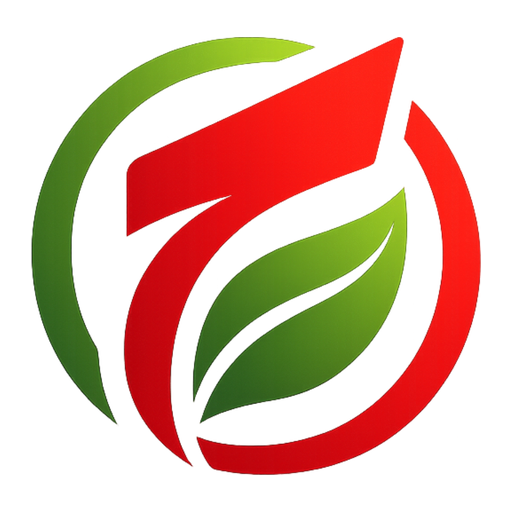
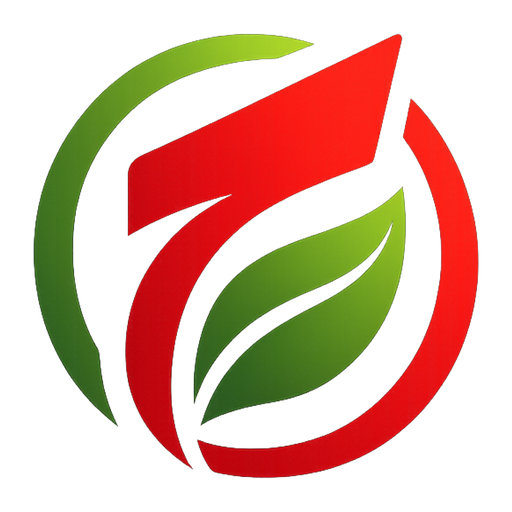
Add files via upload

diff --git a/admin.html b/admin.html
@@ -13,7 +13,7 @@
 <style>
 :root{--bg:#eef4ff;--panel:#fff;--line:#e7eef8;--text:#0f172a;--muted:#64748b;--blue:#2563eb;--blue2:#1d4ed8;--green:#059669;--red:#dc2626;--purple:#7c3aed;--orange:#ea580c;--shadow:0 16px 40px rgba(15,23,42,.08)}
 *{box-sizing:border-box}body{margin:0;font-family:Inter,system-ui,sans-serif;background:var(--bg);color:var(--text)}.hidden{display:none!important}
-.login{min-height:100vh;display:flex;align-items:center;justify-content:center;padding:24px;background:radial-gradient(circle at top left,#1e3a8a,#0f172a 55%)}.card{width:min(460px,100%);background:#fff;border-radius:28px;padding:28px;box-shadow:var(--shadow)}.logo{width:64px;height:64px;border-radius:18px;background:#fff;display:flex;align-items:center;justify-content:center;overflow:hidden;box-shadow:0 10px 24px rgba(15,23,42,.12);margin-bottom:16px;border:1px solid #e2e8f0}.logo img{width:100%;height:100%;object-fit:cover;display:block}.title{font-size:32px;font-weight:900;letter-spacing:-1px;margin:0}.sub{margin:10px 0 20px;color:var(--muted);line-height:1.55}.label{font-size:12px;font-weight:800;text-transform:uppercase;letter-spacing:.08em;color:var(--muted);margin-bottom:8px}.field{margin-bottom:14px}.field input,.field select,.field textarea{width:100%;padding:13px 14px;border-radius:16px;border:1.5px solid #dbe3f0;font:inherit;background:#fff;outline:none}.field textarea{min-height:96px;resize:vertical}.field input:focus,.field select:focus,.field textarea:focus{border-color:var(--blue)}.btn{border:none;border-radius:16px;padding:13px 18px;font:inherit;font-weight:800;cursor:pointer;display:inline-flex;align-items:center;justify-content:center;gap:8px;text-decoration:none}.btn-primary{background:linear-gradient(135deg,var(--blue),var(--blue2));color:#fff;box-shadow:0 12px 24px rgba(37,99,235,.22)}.btn-soft{background:#fff;border:1px solid var(--line);color:var(--text)}.btn-red{background:#fef2f2;border:1px solid #fecaca;color:var(--red)}.btn-green{background:#ecfdf5;border:1px solid #a7f3d0;color:var(--green)}.btn-sm{padding:10px 12px;border-radius:12px;font-size:12px}.err{display:none;color:var(--red);font-size:13px;font-weight:700;margin-top:8px}
+.login{min-height:100vh;display:flex;align-items:center;justify-content:center;padding:24px;background:radial-gradient(circle at top left,#1e3a8a,#0f172a 55%)}.card{width:min(460px,100%);background:#fff;border-radius:28px;padding:28px;box-shadow:var(--shadow)}.logo{width:64px;height:64px;border-radius:18px;background:#fff;display:flex;align-items:center;justify-content:center;overflow:hidden;box-shadow:0 10px 24px rgba(15,23,42,.12);margin-bottom:16px;border:1px solid #e2e8f0}.logo img{width:100%;height:100%;object-fit:contain;display:block}.title{font-size:32px;font-weight:900;letter-spacing:-1px;margin:0}.sub{margin:10px 0 20px;color:var(--muted);line-height:1.55}.label{font-size:12px;font-weight:800;text-transform:uppercase;letter-spacing:.08em;color:var(--muted);margin-bottom:8px}.field{margin-bottom:14px}.field input,.field select,.field textarea{width:100%;padding:13px 14px;border-radius:16px;border:1.5px solid #dbe3f0;font:inherit;background:#fff;outline:none}.field textarea{min-height:96px;resize:vertical}.field input:focus,.field select:focus,.field textarea:focus{border-color:var(--blue)}.btn{border:none;border-radius:16px;padding:13px 18px;font:inherit;font-weight:800;cursor:pointer;display:inline-flex;align-items:center;justify-content:center;gap:8px;text-decoration:none}.btn-primary{background:linear-gradient(135deg,var(--blue),var(--blue2));color:#fff;box-shadow:0 12px 24px rgba(37,99,235,.22)}.btn-soft{background:#fff;border:1px solid var(--line);color:var(--text)}.btn-red{background:#fef2f2;border:1px solid #fecaca;color:var(--red)}.btn-green{background:#ecfdf5;border:1px solid #a7f3d0;color:var(--green)}.btn-sm{padding:10px 12px;border-radius:12px;font-size:12px}.err{display:none;color:var(--red);font-size:13px;font-weight:700;margin-top:8px}
 .main{padding:24px}.shell{max-width:1460px;margin:0 auto}.topbar{background:linear-gradient(135deg,#0f172a,#1e3a8a);color:#fff;border-radius:28px;padding:28px;display:flex;justify-content:space-between;gap:18px;align-items:flex-start;box-shadow:var(--shadow);margin-bottom:18px}.topbar h1{margin:0;font-size:34px;font-weight:900;letter-spacing:-1px}.topbar p{margin:10px 0 0;color:#dbeafe;max-width:760px;line-height:1.6}.actions{display:flex;gap:10px;flex-wrap:wrap}.actions .btn-soft{background:rgba(255,255,255,.12);border-color:rgba(255,255,255,.16);color:#fff}.tabs{display:flex;gap:10px;flex-wrap:wrap;margin-bottom:18px}.tab{padding:11px 16px;border-radius:999px;border:1px solid #dbe3f0;background:#fff;color:#334155;font-weight:800;cursor:pointer}.tab.active{background:#0f172a;color:#fff;border-color:#0f172a}
 .kpis{display:grid;grid-template-columns:repeat(auto-fit,minmax(210px,1fr));gap:16px;margin-bottom:18px}.kpi{background:#fff;border:1px solid var(--line);border-radius:22px;padding:20px;box-shadow:var(--shadow)}.kpi .tag{font-size:12px;font-weight:800;text-transform:uppercase;color:var(--muted);letter-spacing:.08em}.kpi .num{font-size:34px;font-weight:900;margin-top:10px}.grid{display:grid;grid-template-columns:1.2fr .8fr;gap:18px}.panel{background:#fff;border:1px solid var(--line);border-radius:24px;padding:20px;box-shadow:var(--shadow)}.panel-title{display:flex;justify-content:space-between;align-items:center;gap:12px;margin-bottom:16px}.panel-title h2{margin:0;font-size:20px;font-weight:900}.panel-sub{font-size:13px;color:var(--muted);margin-top:4px}.cards{display:grid;grid-template-columns:repeat(auto-fit,minmax(320px,1fr));gap:16px}.site-card{border:1px solid var(--line);border-radius:22px;padding:18px;background:linear-gradient(180deg,#fff,#fbfdff)}.site-head{display:flex;justify-content:space-between;align-items:flex-start;gap:10px}.site-title{font-size:20px;font-weight:900;letter-spacing:-.4px}.code{font-family:ui-monospace,SFMono-Regular,Menlo,monospace;font-size:12px;color:var(--muted);margin-top:4px}.mini{font-size:12px;color:var(--muted)}.badges{display:flex;gap:6px;flex-wrap:wrap}.badge{display:inline-flex;align-items:center;padding:5px 10px;border-radius:999px;font-size:11px;font-weight:800}.b-free{background:#eef2ff;color:#4338ca}.b-pro{background:#dbeafe;color:#1d4ed8}.b-multi{background:#f3e8ff;color:#7e22ce}.b-ent{background:#ede9fe;color:#5b21b6}.b-on{background:#ecfdf5;color:#047857}.b-off{background:#fef2f2;color:#b91c1c}.role{display:inline-flex;align-items:center;padding:4px 9px;border-radius:999px;font-size:11px;font-weight:800}.role-resp{background:#ede9fe;color:#6d28d9}.role-agent{background:#ecfeff;color:#0f766e}.agent-list{display:flex;flex-direction:column;gap:8px;margin-top:12px}.agent-row{display:flex;justify-content:space-between;align-items:center;gap:10px;padding:10px 12px;background:#f8fafc;border:1px solid #e2e8f0;border-radius:16px}.agent-left{display:flex;align-items:center;gap:8px;flex-wrap:wrap}.agent-right{display:flex;align-items:center;gap:8px;flex-wrap:wrap}.site-actions{display:flex;gap:8px;flex-wrap:wrap;margin-top:14px}.form-grid{display:grid;grid-template-columns:repeat(2,minmax(0,1fr));gap:12px}.full{grid-column:1/-1}.toolbar{display:grid;grid-template-columns:220px 1fr auto;gap:10px;margin-bottom:14px}.table-wrap{overflow:auto}.table{width:100%;border-collapse:collapse}.table th,.table td{padding:12px 8px;border-bottom:1px solid #eef2f7;text-align:left;font-size:13px;vertical-align:top}.table th{font-size:11px;text-transform:uppercase;letter-spacing:.08em;color:var(--muted)}.empty{padding:18px 0;color:var(--muted)}.pill{display:inline-flex;align-items:center;padding:5px 9px;border-radius:999px;font-size:11px;font-weight:800}.pill-gray{background:#f1f5f9;color:#475569}.pill-orange{background:#ffedd5;color:#c2410c}.pill-blue{background:#dbeafe;color:#1d4ed8}.session{display:flex;justify-content:space-between;gap:14px;padding:14px;border:1px solid #e7eef8;border-radius:18px;background:#fff}.session+.session{margin-top:10px}.toast{position:fixed;bottom:20px;left:50%;transform:translateX(-50%);background:#0f172a;color:#fff;padding:12px 18px;border-radius:14px;font-size:13px;font-weight:800;display:none;z-index:999}@media(max-width:980px){.grid,.toolbar,.form-grid{grid-template-columns:1fr}.topbar{flex-direction:column}.main{padding:16px}}
 .table-modern tbody tr:nth-child(even){background:#fbfdff}.table-modern tbody tr:hover{background:#eef4ff}.table-sticky thead th{position:sticky;top:0;background:#fff;z-index:1}.mainbase-stats{display:flex;gap:10px;flex-wrap:wrap;margin:10px 0 14px}.mini-pill{display:inline-flex;align-items:center;padding:6px 10px;border-radius:999px;font-size:12px;font-weight:700;background:#f8fafc;border:1px solid #e2e8f0;color:#334155}.pager{display:flex;justify-content:space-between;align-items:center;gap:12px;margin-top:12px;flex-wrap:wrap}.pager-actions{display:flex;gap:8px;align-items:center}.pager select{padding:10px 12px;border-radius:12px;border:1px solid #dbe3f0;font:inherit;background:#fff}.badge-sheet{background:#dbeafe;color:#1d4ed8}.badge-count{background:#ecfdf5;color:#047857}.badge-cols{background:#ede9fe;color:#6d28d9}
@@ -23,7 +23,7 @@
 <body>
 <section id="login" class="login">
   <div class="card">
-    <div class="logo"><img src="./assets/tridds-icon-512.png" alt="TriDDS"></div>
+    <div class="logo"><img src="./assets/tridds-symbol.png" alt="TriDDS"></div>
     <h1 class="title">TriDDS Admin</h1>
     <p class="sub">Pilotez les sites, les ventes, les sessions, la base produits et la base de connaissance depuis une seule page.</p>
     <div class="field"><div class="label">Clé administrateur</div><input id="in-key" type="password" placeholder="Entrez votre clé admin"></div>

diff --git a/admin-knowledge.html b/admin-knowledge.html
@@ -12,13 +12,13 @@
 <link href="https://fonts.googleapis.com/css2?family=Inter:wght@400;500;600;700;800;900&display=swap" rel="stylesheet">
 <style>
 :root{--bg:#eef4ff;--panel:#fff;--line:#e7eef8;--text:#0f172a;--muted:#64748b;--blue:#2563eb;--blue2:#1d4ed8;--green:#059669;--red:#dc2626;--purple:#7c3aed;--shadow:0 16px 40px rgba(15,23,42,.08)}
-*{box-sizing:border-box}body{margin:0;font-family:Inter,system-ui,sans-serif;background:var(--bg);color:var(--text)}.hidden{display:none!important}.login{min-height:100vh;display:flex;align-items:center;justify-content:center;padding:24px;background:radial-gradient(circle at top left,#1e3a8a,#0f172a 55%)}.card{width:min(460px,100%);background:#fff;border-radius:28px;padding:28px;box-shadow:var(--shadow)}.logo{width:64px;height:64px;border-radius:18px;background:#fff;display:flex;align-items:center;justify-content:center;overflow:hidden;box-shadow:0 10px 24px rgba(15,23,42,.12);margin-bottom:16px;border:1px solid #e2e8f0}.logo img{width:100%;height:100%;object-fit:cover;display:block}.title{font-size:32px;font-weight:900;letter-spacing:-1px;margin:0}.sub{margin:10px 0 20px;color:var(--muted);line-height:1.55}.label{font-size:12px;font-weight:800;text-transform:uppercase;letter-spacing:.08em;color:var(--muted);margin-bottom:8px}.field{margin-bottom:14px}.field input,.field select,.field textarea{width:100%;padding:13px 14px;border-radius:16px;border:1.5px solid #dbe3f0;font:inherit;background:#fff;outline:none}.field input:focus,.field select:focus,.field textarea:focus{border-color:var(--blue)}.field textarea{min-height:96px;resize:vertical}.btn{border:none;border-radius:16px;padding:13px 18px;font:inherit;font-weight:800;cursor:pointer;display:inline-flex;align-items:center;justify-content:center;gap:8px;text-decoration:none}.btn-primary{background:linear-gradient(135deg,var(--blue),var(--blue2));color:#fff;box-shadow:0 12px 24px rgba(37,99,235,.22)}.btn-soft{background:#fff;border:1px solid var(--line);color:var(--text)}.btn-red{background:#fef2f2;border:1px solid #fecaca;color:var(--red)}.btn-green{background:#ecfdf5;border:1px solid #a7f3d0;color:var(--green)}.btn-sm{padding:10px 12px;border-radius:12px;font-size:12px}.err{display:none;color:var(--red);font-size:13px;font-weight:700;margin-top:8px}.main{padding:24px}.shell{max-width:1440px;margin:0 auto}.topbar{background:linear-gradient(135deg,#0f172a,#1e3a8a);color:#fff;border-radius:28px;padding:28px;display:flex;justify-content:space-between;gap:18px;align-items:flex-start;box-shadow:var(--shadow);margin-bottom:18px}.topbar h1{margin:0;font-size:34px;font-weight:900;letter-spacing:-1px}.topbar p{margin:10px 0 0;color:#dbeafe;max-width:760px;line-height:1.6}.actions{display:flex;gap:10px;flex-wrap:wrap}.actions .btn-soft{background:rgba(255,255,255,.12);border-color:rgba(255,255,255,.16);color:#fff}.kpis{display:grid;grid-template-columns:repeat(auto-fit,minmax(220px,1fr));gap:16px;margin-bottom:18px}.kpi{background:#fff;border:1px solid var(--line);border-radius:22px;padding:20px;box-shadow:var(--shadow)}.kpi .tag{font-size:12px;font-weight:800;text-transform:uppercase;color:var(--muted);letter-spacing:.08em}.kpi .num{font-size:34px;font-weight:900;margin-top:10px}.grid{display:grid;grid-template-columns:1.25fr .95fr;gap:18px}.panel{background:#fff;border:1px solid var(--line);border-radius:24px;padding:20px;box-shadow:var(--shadow)}.panel-title{display:flex;justify-content:space-between;align-items:center;gap:12px;margin-bottom:16px}.panel-title h2{margin:0;font-size:20px;font-weight:900}.panel-sub{font-size:13px;color:var(--muted);margin-top:4px}.toolbar{display:grid;grid-template-columns:220px 1fr auto;gap:10px;margin-bottom:14px}.table-wrap{overflow:auto}.table{width:100%;border-collapse:collapse}.table th,.table td{padding:12px 8px;border-bottom:1px solid #eef2f7;text-align:left;font-size:13px;vertical-align:top}.table th{font-size:11px;text-transform:uppercase;letter-spacing:.08em;color:var(--muted)}.pill{display:inline-flex;align-items:center;padding:5px 9px;border-radius:999px;font-size:11px;font-weight:800}.pill-blue{background:#dbeafe;color:#1d4ed8}.pill-green{background:#ecfdf5;color:#047857}.pill-orange{background:#ffedd5;color:#c2410c}.empty{padding:18px 0;color:var(--muted)}.toast{position:fixed;bottom:20px;left:50%;transform:translateX(-50%);background:#0f172a;color:#fff;padding:12px 18px;border-radius:14px;font-size:13px;font-weight:800;display:none;z-index:999}.form-grid{display:grid;grid-template-columns:repeat(2,minmax(0,1fr));gap:12px}.full{grid-column:1/-1}.mini{font-size:12px;color:var(--muted)}@media(max-width:980px){.grid,.toolbar,.form-grid{grid-template-columns:1fr}.topbar{flex-direction:column}.main{padding:16px}}
+*{box-sizing:border-box}body{margin:0;font-family:Inter,system-ui,sans-serif;background:var(--bg);color:var(--text)}.hidden{display:none!important}.login{min-height:100vh;display:flex;align-items:center;justify-content:center;padding:24px;background:radial-gradient(circle at top left,#1e3a8a,#0f172a 55%)}.card{width:min(460px,100%);background:#fff;border-radius:28px;padding:28px;box-shadow:var(--shadow)}.logo{width:64px;height:64px;border-radius:18px;background:#fff;display:flex;align-items:center;justify-content:center;overflow:hidden;box-shadow:0 10px 24px rgba(15,23,42,.12);margin-bottom:16px;border:1px solid #e2e8f0}.logo img{width:100%;height:100%;object-fit:contain;display:block}.title{font-size:32px;font-weight:900;letter-spacing:-1px;margin:0}.sub{margin:10px 0 20px;color:var(--muted);line-height:1.55}.label{font-size:12px;font-weight:800;text-transform:uppercase;letter-spacing:.08em;color:var(--muted);margin-bottom:8px}.field{margin-bottom:14px}.field input,.field select,.field textarea{width:100%;padding:13px 14px;border-radius:16px;border:1.5px solid #dbe3f0;font:inherit;background:#fff;outline:none}.field input:focus,.field select:focus,.field textarea:focus{border-color:var(--blue)}.field textarea{min-height:96px;resize:vertical}.btn{border:none;border-radius:16px;padding:13px 18px;font:inherit;font-weight:800;cursor:pointer;display:inline-flex;align-items:center;justify-content:center;gap:8px;text-decoration:none}.btn-primary{background:linear-gradient(135deg,var(--blue),var(--blue2));color:#fff;box-shadow:0 12px 24px rgba(37,99,235,.22)}.btn-soft{background:#fff;border:1px solid var(--line);color:var(--text)}.btn-red{background:#fef2f2;border:1px solid #fecaca;color:var(--red)}.btn-green{background:#ecfdf5;border:1px solid #a7f3d0;color:var(--green)}.btn-sm{padding:10px 12px;border-radius:12px;font-size:12px}.err{display:none;color:var(--red);font-size:13px;font-weight:700;margin-top:8px}.main{padding:24px}.shell{max-width:1440px;margin:0 auto}.topbar{background:linear-gradient(135deg,#0f172a,#1e3a8a);color:#fff;border-radius:28px;padding:28px;display:flex;justify-content:space-between;gap:18px;align-items:flex-start;box-shadow:var(--shadow);margin-bottom:18px}.topbar h1{margin:0;font-size:34px;font-weight:900;letter-spacing:-1px}.topbar p{margin:10px 0 0;color:#dbeafe;max-width:760px;line-height:1.6}.actions{display:flex;gap:10px;flex-wrap:wrap}.actions .btn-soft{background:rgba(255,255,255,.12);border-color:rgba(255,255,255,.16);color:#fff}.kpis{display:grid;grid-template-columns:repeat(auto-fit,minmax(220px,1fr));gap:16px;margin-bottom:18px}.kpi{background:#fff;border:1px solid var(--line);border-radius:22px;padding:20px;box-shadow:var(--shadow)}.kpi .tag{font-size:12px;font-weight:800;text-transform:uppercase;color:var(--muted);letter-spacing:.08em}.kpi .num{font-size:34px;font-weight:900;margin-top:10px}.grid{display:grid;grid-template-columns:1.25fr .95fr;gap:18px}.panel{background:#fff;border:1px solid var(--line);border-radius:24px;padding:20px;box-shadow:var(--shadow)}.panel-title{display:flex;justify-content:space-between;align-items:center;gap:12px;margin-bottom:16px}.panel-title h2{margin:0;font-size:20px;font-weight:900}.panel-sub{font-size:13px;color:var(--muted);margin-top:4px}.toolbar{display:grid;grid-template-columns:220px 1fr auto;gap:10px;margin-bottom:14px}.table-wrap{overflow:auto}.table{width:100%;border-collapse:collapse}.table th,.table td{padding:12px 8px;border-bottom:1px solid #eef2f7;text-align:left;font-size:13px;vertical-align:top}.table th{font-size:11px;text-transform:uppercase;letter-spacing:.08em;color:var(--muted)}.pill{display:inline-flex;align-items:center;padding:5px 9px;border-radius:999px;font-size:11px;font-weight:800}.pill-blue{background:#dbeafe;color:#1d4ed8}.pill-green{background:#ecfdf5;color:#047857}.pill-orange{background:#ffedd5;color:#c2410c}.empty{padding:18px 0;color:var(--muted)}.toast{position:fixed;bottom:20px;left:50%;transform:translateX(-50%);background:#0f172a;color:#fff;padding:12px 18px;border-radius:14px;font-size:13px;font-weight:800;display:none;z-index:999}.form-grid{display:grid;grid-template-columns:repeat(2,minmax(0,1fr));gap:12px}.full{grid-column:1/-1}.mini{font-size:12px;color:var(--muted)}@media(max-width:980px){.grid,.toolbar,.form-grid{grid-template-columns:1fr}.topbar{flex-direction:column}.main{padding:16px}}
 </style>
 </head>
 <body>
 <section id="login" class="login">
   <div class="card">
-    <div class="logo"><img src="./assets/tridds-icon-512.png" alt="TriDDS"></div>
+    <div class="logo"><img src="./assets/tridds-symbol.png" alt="TriDDS"></div>
     <h1 class="title">Base de connaissance</h1>
     <p class="sub">Pilotez ce que l’IA apprend réellement : marques, cas fréquents, catégories, flux et promotion vers le catalogue officiel.</p>
     <div class="field"><div class="label">Clé administrateur</div><input id="in-key" type="password" placeholder="Entrez votre clé admin"></div>

diff --git a/admin-base.html b/admin-base.html
@@ -13,14 +13,14 @@
 <style>
 :root{--bg:#eef4ff;--panel:#fff;--line:#e7eef8;--text:#0f172a;--muted:#64748b;--blue:#2563eb;--blue2:#1d4ed8;--green:#059669;--red:#dc2626;--purple:#7c3aed;--shadow:0 16px 40px rgba(15,23,42,.08);--r:22px}
 *{box-sizing:border-box}body{margin:0;font-family:Inter,system-ui,sans-serif;background:var(--bg);color:var(--text)}.hidden{display:none!important}
-.login{min-height:100vh;display:flex;align-items:center;justify-content:center;padding:24px;background:radial-gradient(circle at top left,#1e3a8a,#0f172a 55%)}.card{width:min(460px,100%);background:#fff;border-radius:28px;padding:28px;box-shadow:var(--shadow)}.logo{width:64px;height:64px;border-radius:18px;background:#fff;display:flex;align-items:center;justify-content:center;overflow:hidden;box-shadow:0 10px 24px rgba(15,23,42,.12);margin-bottom:16px;border:1px solid #e2e8f0}.logo img{width:100%;height:100%;object-fit:cover;display:block}.title{font-size:32px;font-weight:900;letter-spacing:-1px;margin:0}.sub{margin:10px 0 20px;color:var(--muted);line-height:1.55}.label{font-size:12px;font-weight:800;text-transform:uppercase;letter-spacing:.08em;color:var(--muted);margin-bottom:8px}.field{margin-bottom:14px}.field input,.field select,.field textarea{width:100%;padding:13px 14px;border-radius:16px;border:1.5px solid #dbe3f0;font:inherit;background:#fff;outline:none}.field textarea{min-height:96px;resize:vertical}.field input:focus,.field select:focus,.field textarea:focus{border-color:var(--blue)}.btn{border:none;border-radius:16px;padding:13px 18px;font:inherit;font-weight:800;cursor:pointer;display:inline-flex;align-items:center;justify-content:center;gap:8px;text-decoration:none}.btn-primary{background:linear-gradient(135deg,var(--blue),var(--blue2));color:#fff;box-shadow:0 12px 24px rgba(37,99,235,.22)}.btn-soft{background:#fff;border:1px solid var(--line);color:var(--text)}.btn-red{background:#fef2f2;border:1px solid #fecaca;color:var(--red)}.btn-green{background:#ecfdf5;border:1px solid #a7f3d0;color:var(--green)}.btn-sm{padding:10px 12px;border-radius:12px;font-size:12px}.err{display:none;color:var(--red);font-size:13px;font-weight:700;margin-top:8px}
+.login{min-height:100vh;display:flex;align-items:center;justify-content:center;padding:24px;background:radial-gradient(circle at top left,#1e3a8a,#0f172a 55%)}.card{width:min(460px,100%);background:#fff;border-radius:28px;padding:28px;box-shadow:var(--shadow)}.logo{width:64px;height:64px;border-radius:18px;background:#fff;display:flex;align-items:center;justify-content:center;overflow:hidden;box-shadow:0 10px 24px rgba(15,23,42,.12);margin-bottom:16px;border:1px solid #e2e8f0}.logo img{width:100%;height:100%;object-fit:contain;display:block}.title{font-size:32px;font-weight:900;letter-spacing:-1px;margin:0}.sub{margin:10px 0 20px;color:var(--muted);line-height:1.55}.label{font-size:12px;font-weight:800;text-transform:uppercase;letter-spacing:.08em;color:var(--muted);margin-bottom:8px}.field{margin-bottom:14px}.field input,.field select,.field textarea{width:100%;padding:13px 14px;border-radius:16px;border:1.5px solid #dbe3f0;font:inherit;background:#fff;outline:none}.field textarea{min-height:96px;resize:vertical}.field input:focus,.field select:focus,.field textarea:focus{border-color:var(--blue)}.btn{border:none;border-radius:16px;padding:13px 18px;font:inherit;font-weight:800;cursor:pointer;display:inline-flex;align-items:center;justify-content:center;gap:8px;text-decoration:none}.btn-primary{background:linear-gradient(135deg,var(--blue),var(--blue2));color:#fff;box-shadow:0 12px 24px rgba(37,99,235,.22)}.btn-soft{background:#fff;border:1px solid var(--line);color:var(--text)}.btn-red{background:#fef2f2;border:1px solid #fecaca;color:var(--red)}.btn-green{background:#ecfdf5;border:1px solid #a7f3d0;color:var(--green)}.btn-sm{padding:10px 12px;border-radius:12px;font-size:12px}.err{display:none;color:var(--red);font-size:13px;font-weight:700;margin-top:8px}
 .main{padding:24px}.shell{max-width:1420px;margin:0 auto}.topbar{background:linear-gradient(135deg,#0f172a,#1e3a8a);color:#fff;border-radius:28px;padding:28px;display:flex;justify-content:space-between;gap:18px;align-items:flex-start;box-shadow:var(--shadow);margin-bottom:18px}.topbar h1{margin:0;font-size:34px;font-weight:900;letter-spacing:-1px}.topbar p{margin:10px 0 0;color:#dbeafe;max-width:760px;line-height:1.6}.actions{display:flex;gap:10px;flex-wrap:wrap}.actions .btn-soft{background:rgba(255,255,255,.12);border-color:rgba(255,255,255,.16);color:#fff}.kpis{display:grid;grid-template-columns:repeat(auto-fit,minmax(220px,1fr));gap:16px;margin-bottom:18px}.kpi{background:#fff;border:1px solid var(--line);border-radius:22px;padding:20px;box-shadow:var(--shadow)}.kpi .tag{font-size:12px;font-weight:800;text-transform:uppercase;color:var(--muted);letter-spacing:.08em}.kpi .num{font-size:34px;font-weight:900;margin-top:10px}.grid{display:grid;grid-template-columns:1.3fr .9fr;gap:18px}.panel{background:#fff;border:1px solid var(--line);border-radius:24px;padding:20px;box-shadow:var(--shadow)}.panel-title{display:flex;justify-content:space-between;align-items:center;gap:12px;margin-bottom:16px}.panel-title h2{margin:0;font-size:20px;font-weight:900}.panel-sub{font-size:13px;color:var(--muted);margin-top:4px}.toolbar{display:grid;grid-template-columns:220px 1fr auto;gap:10px;margin-bottom:14px}.table-wrap{overflow:auto}.table{width:100%;border-collapse:collapse}.table th,.table td{padding:12px 8px;border-bottom:1px solid #eef2f7;text-align:left;font-size:13px;vertical-align:top}.table th{font-size:11px;text-transform:uppercase;letter-spacing:.08em;color:var(--muted)}.pill{display:inline-flex;align-items:center;padding:5px 9px;border-radius:999px;font-size:11px;font-weight:800}.pill-blue{background:#dbeafe;color:#1d4ed8}.pill-green{background:#ecfdf5;color:#047857}.pill-gray{background:#f1f5f9;color:#475569}.empty{padding:18px 0;color:var(--muted)}.toast{position:fixed;bottom:20px;left:50%;transform:translateX(-50%);background:#0f172a;color:#fff;padding:12px 18px;border-radius:14px;font-size:13px;font-weight:800;display:none;z-index:999}.form-grid{display:grid;grid-template-columns:repeat(2,minmax(0,1fr));gap:12px}.full{grid-column:1/-1}.mini{font-size:12px;color:var(--muted)}@media(max-width:980px){.grid,.toolbar,.form-grid{grid-template-columns:1fr}.topbar{flex-direction:column}.main{padding:16px}}
 </style>
 </head>
 <body>
 <section id="login" class="login">
   <div class="card">
-    <div class="logo"><img src="./assets/tridds-icon-512.png" alt="TriDDS"></div>
+    <div class="logo"><img src="./assets/tridds-symbol.png" alt="TriDDS"></div>
     <h1 class="title">Base produits admin</h1>
     <p class="sub">Gestion centrale des fiches produits personnalisées par client et par site.</p>
     <div class="field"><div class="label">Clé administrateur</div><input id="in-key" type="password" placeholder="Entrez votre clé admin"></div>
